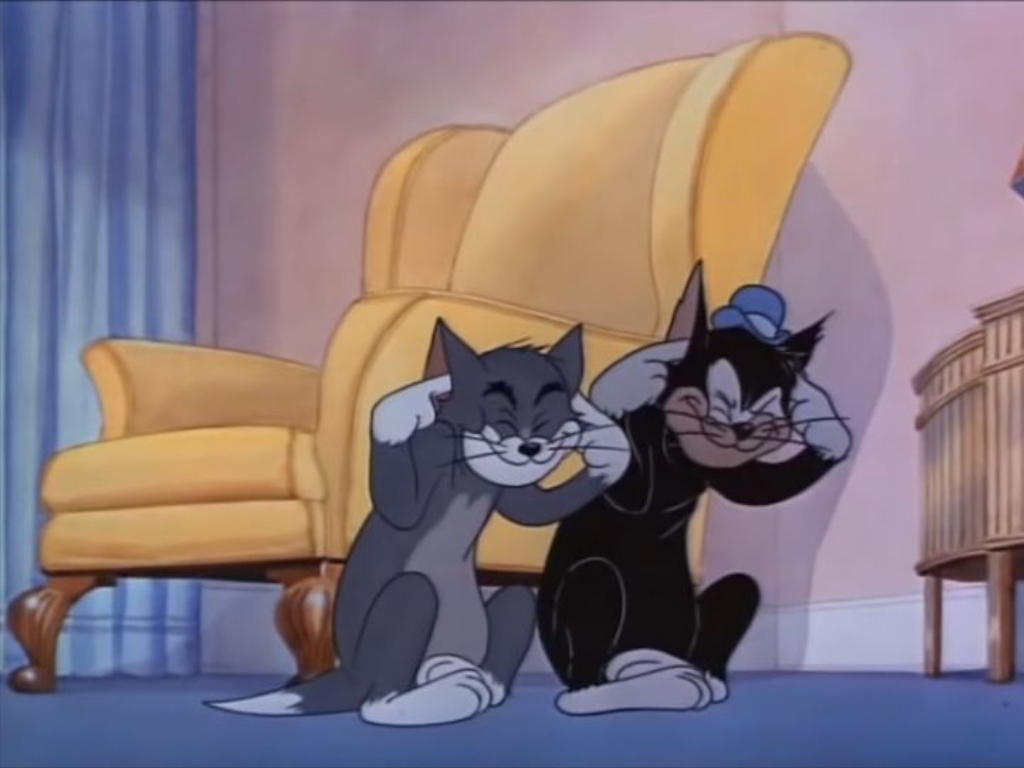
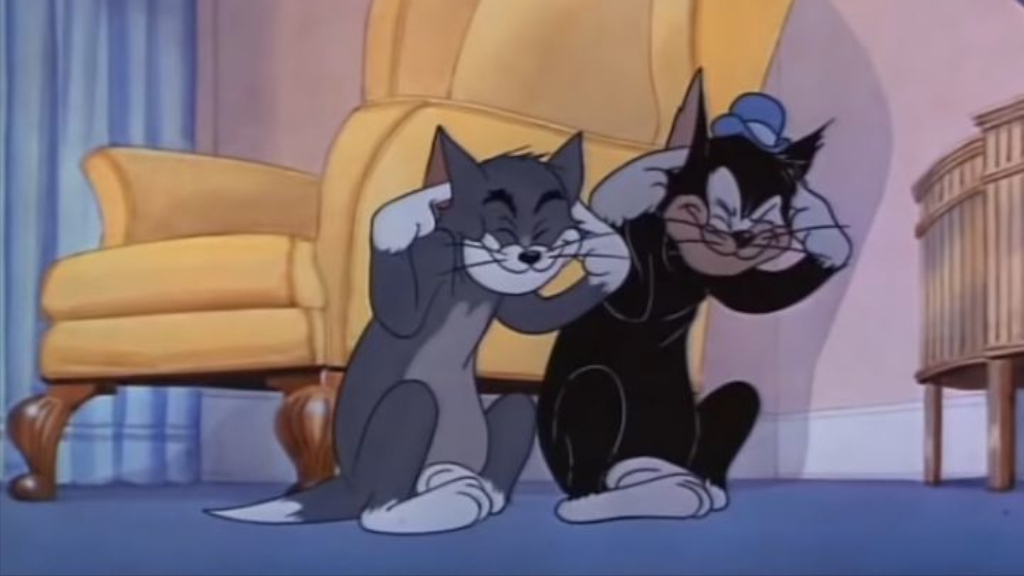
fix: adjust images for 16/9 aspect ratio (Wed, Sep 11, 2024 03:15:26 PM)

diff --git a/cssMemeSlider/style.css b/cssMemeSlider/style.css
@@ -103,7 +103,6 @@ label:active input:checked {
 
 .image-container {
   width: 100%;
-  padding: 0 1.25rem;
   order: 0;
 }
 
@@ -189,8 +188,8 @@ label:active input:checked {
 .checkbox-container:has(#pic1:checked) ~ .image-container .meme-image {
   background: url("./assets/meme1.jpg") no-repeat center center;
   background-size: contain;
-  padding-top: 75%;
-  aspect-ratio: 4/3;
+  padding-top: 56.25%;
+  aspect-ratio: 16/9;
   width: 100%;
   animation-name: pic1;
   animation-duration: 2s;
@@ -199,8 +198,8 @@ label:active input:checked {
 .checkbox-container:has(#pic2:checked) ~ .image-container .meme-image {
   background: url("./assets/meme2.jpg") no-repeat center center;
   background-size: contain;
-  padding-top: 75%;
-  aspect-ratio: 4/3;
+  padding-top: 56.25%;
+  aspect-ratio: 16/9;
   width: 100%;
   animation-name: pic2;
   animation-duration: 2s;
@@ -209,8 +208,8 @@ label:active input:checked {
 .checkbox-container:has(#pic3:checked) ~ .image-container .meme-image {
   background: url("./assets/meme3.jpg") no-repeat center center;
   background-size: contain;
-  padding-top: 75%;
-  aspect-ratio: 4/3;
+  padding-top: 56.25%;
+  aspect-ratio: 16/9;
   width: 100%;
   animation-name: pic3;
   animation-duration: 2s;
@@ -219,8 +218,8 @@ label:active input:checked {
 .checkbox-container:has(#pic4:checked) ~ .image-container .meme-image {
   background: url("./assets/meme4.jpg") no-repeat center center;
   background-size: contain;
-  padding-top: 75%;
-  aspect-ratio: 4/3;
+  padding-top: 56.25%;
+  aspect-ratio: 16/9;
   width: 100%;
   animation-name: pic4;
   animation-duration: 2s;
